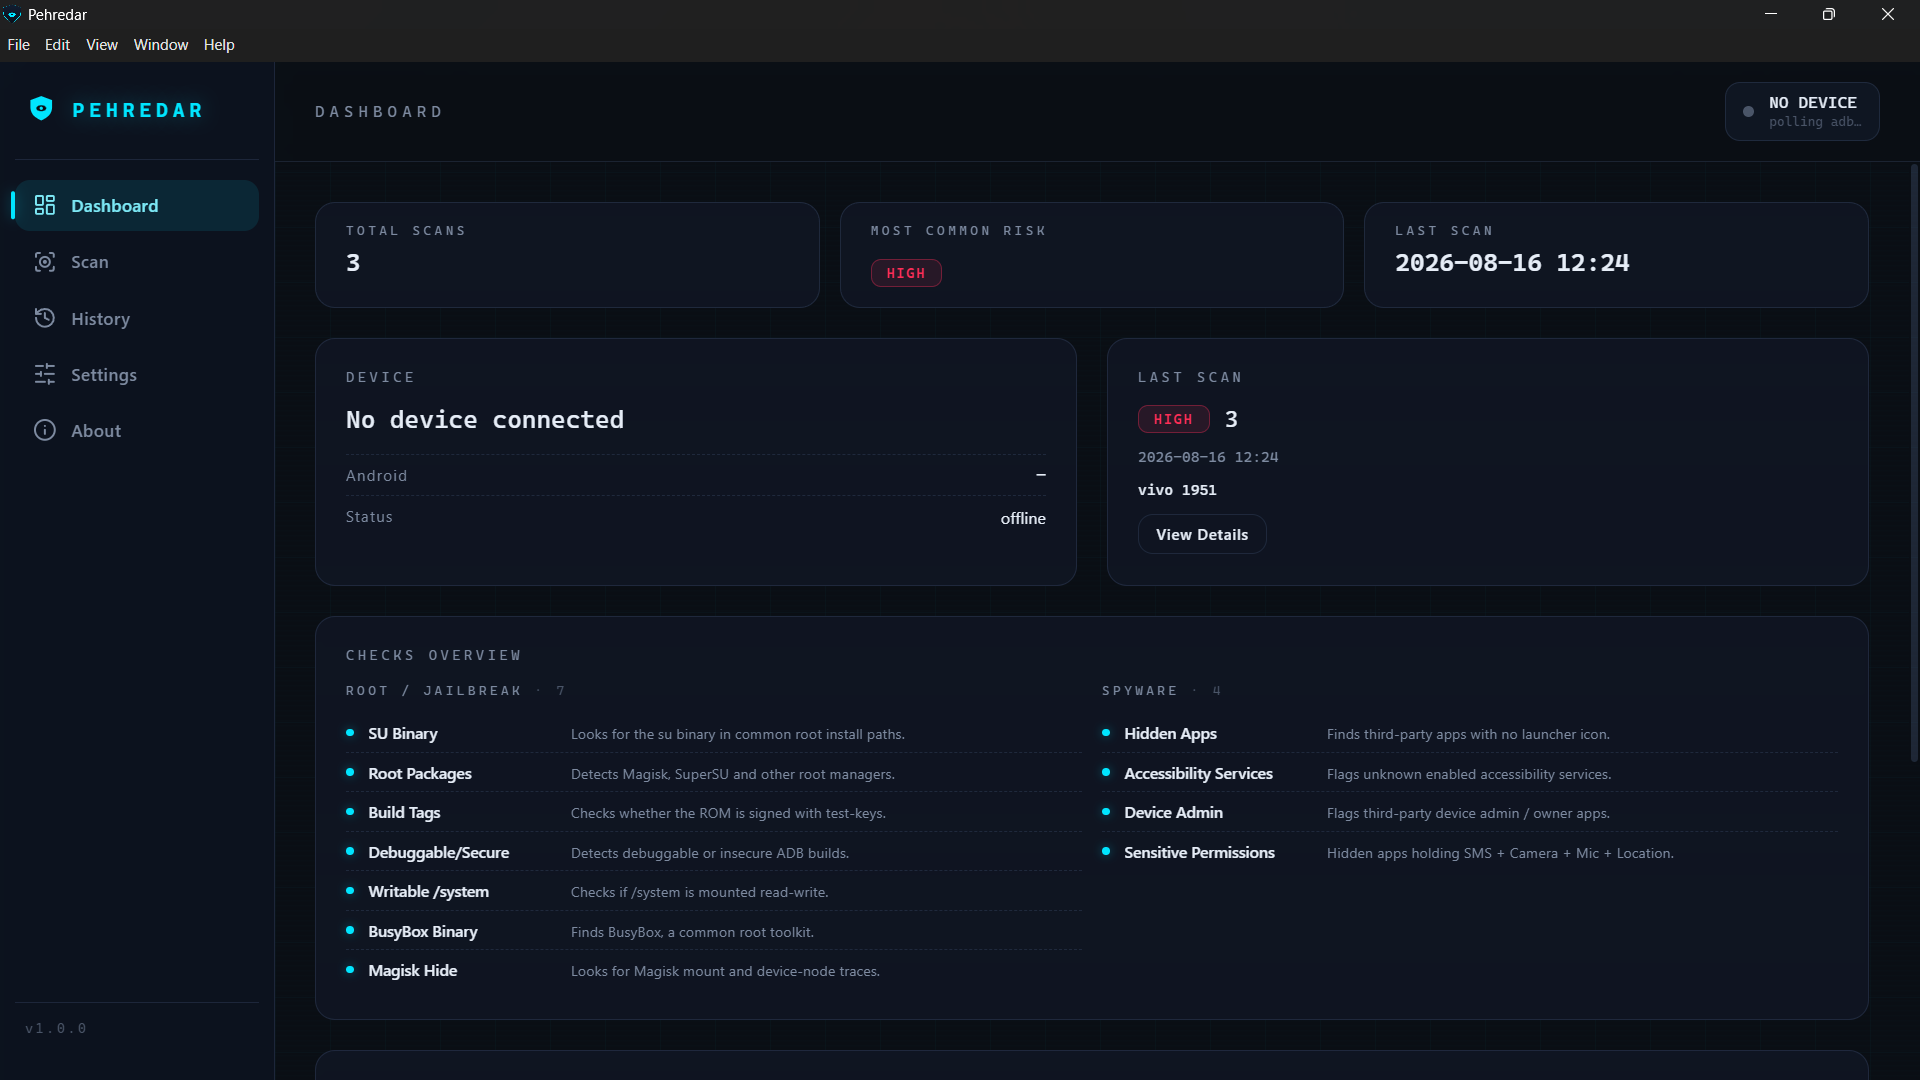
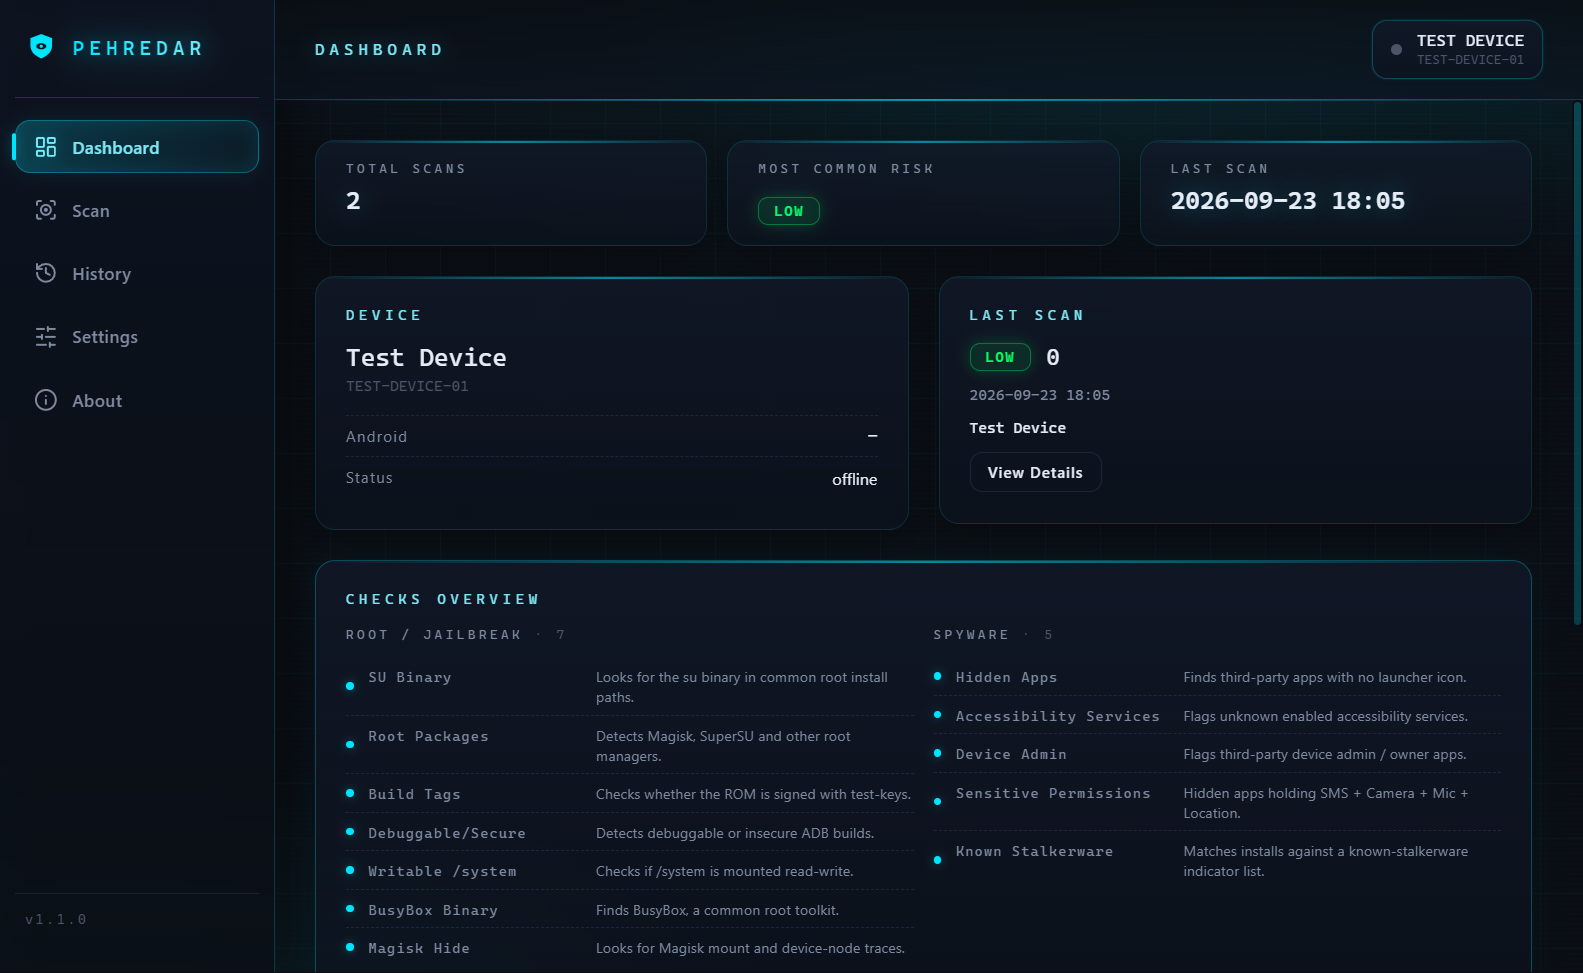
Rewrite README (short, safety-first) with fresh v1.1.0 screenshots
- 43 lines / 304 words: tagline, screenshots, download, 4-step quick start, checks table, safety note, license

- New dashboard/history/safety-first captures (fixture data only, no PII); retire stale scan-detail

diff --git a/README.md b/README.md
@@ -1,68 +1,43 @@
 # Pehredar
 
-**Pehredar** (Hindi: पहरेदार, "watchman / guard") checks Android devices for root, jailbreak, and hidden-monitoring indicators over ADB — no on-device installation required.
+**Know what's really on your Android phone.**
 
-![Build](https://img.shields.io/badge/build-pending-lightgrey) <!-- TODO: point at your CI workflow status badge -->
-![License: MIT](https://img.shields.io/badge/license-MIT-blue.svg)
-![Platform](https://img.shields.io/badge/platform-Windows%20%7C%20macOS%20%7C%20Linux-00e5ff)
-
-## What is Pehredar?
-
-One tool, two audiences. For developers and QA teams it's a compliance-testing tool that verifies how an Android app behaves against rooted or compromised devices — 12 detection checks over ADB, nothing installed on the phone, and client-ready JSON/HTML reports. For individuals it's a way to check whether your own phone has been tampered with or carries hidden monitoring (spyware/stalkerware) apps — plug in, click a button, read results in plain language. Both share the exact same detection engine; only the presentation differs.
+Pehredar checks your phone for hidden monitoring and tampering — rooting, spyware, stalkerware — over USB, with nothing installed on the phone itself. If something serious turns up, it explains the finding in plain language and never rushes you toward removal: deleting spyware can alert whoever put it there.
 
 ## Screenshots
 
-| Dashboard | Live scan | Scan detail |
-| --------- | --------- | ----------- |
-| ![Dashboard](screenshots/dashboard.png) | ![Live scan](screenshots/scan-live.png) | ![Scan detail](screenshots/scan-detail.png) |
+| Dashboard | Live scan |
+| --------- | --------- |
+| ![Dashboard](screenshots/dashboard.png) | ![Live scan](screenshots/scan-live.png) |
 
-## Download (packaged app — no setup)
+| Safety-first flow | History + compare |
+| ----------------- | ----------------- |
+| ![Safety first](screenshots/safety-first.png) | ![History](screenshots/history.png) |
 
-No Python or ADB install needed — both are bundled inside the installer.
-Grab the latest release from
-[GitHub Releases](https://github.com/MadB0i/Pehredar/releases),
-install, plug in your phone with USB Debugging on, and click Scan.
+## Download & install
 
-- Windows: `Pehredar-*-win-*.exe` (unsigned — accept the SmartScreen prompt, verify `SHA256SUMS.txt`)
-- Linux: `Pehredar-*-linux-*.AppImage` (`chmod +x`, then run)
+Grab the latest installer from [GitHub Releases](https://github.com/MadB0i/Pehredar/releases) — Python and ADB are bundled inside, nothing else to install.
 
-The installer embeds Google's Android Debug Bridge (adb) —
-see [NOTICE-THIRD-PARTY.md](NOTICE-THIRD-PARTY.md) for the license note.
+- Windows: `Pehredar-*-win-*.exe` (unsigned, so SmartScreen will ask — verify `SHA256SUMS-win.txt`)
+- Linux: `Pehredar-*.AppImage` (`chmod +x`, then run)
 
-## Quick Start (from source — Python + adb required)
+## Quick start
 
-```bash
-# prerequisites: Python 3.8+ and adb (Android Platform Tools)
-git clone https://github.com/MadB0i/Pehredar.git
-cd Pehredar
-pip install -e .
-```
+1. Install Pehredar from the link above.
+2. On the phone: tap **Build number** 7 times, turn on **USB debugging**, plug in with USB.
+3. Accept the *Allow USB debugging?* prompt on the phone.
+4. Click **New Scan** and read the plain-language summary.
 
-Enable **USB Debugging** on your phone (Settings → Developer Options), connect it, and authorize the computer when prompted. Then:
+## What it checks
 
-```bash
-pehredar        # runs 12 checks and prints a risk summary
-pehredar-diff old.json new.json   # what changed since last scan (exit 1 = new findings)
-```
+| Root / jailbreak (7) | Spyware / stalkerware (5) |
+| -------------------- | ------------------------- |
+| SU binary, root packages (Magisk/SuperSU), build tags, debuggable props, writable `/system`, BusyBox, Magisk Hide | Hidden apps (no icon), accessibility abuse, device admin/owner, SMS+camera+mic+location combo, known-stalkerware list |
 
-Or launch the desktop app: `cd gui && npm install && npm start`.
+## Safety first
 
-## Features
+High-risk findings don't lead straight to an Uninstall button. Pehredar shows a calm choice screen first: preserve evidence (stored off the phone, never in a shared account), remove with understanding, or see India support options (112, 181, NCW 14490, Cyber 1930). Scan verdicts are indicators, never proof — verify before acting.
 
-- Root/jailbreak detection: su binary, root apps (Magisk/SuperSU), build tags, debuggable props, writable `/system`, BusyBox, Magisk Hide
-- Spyware detection: hidden apps, accessibility services, device admin/owner, apps holding SMS + camera + mic + location, known-stalkerware list (CAS/TinyCheck curated)
-- Scan diffing: `pehredar-diff old.json new.json` shows new apps, new failures, risk change since last scan
-- Risk scoring (Low/Medium/High) with JSON report and JSON streaming export
-- Electron GUI: animated scan graph, dashboard, history, settings, one-click HTML report export
-- Review & Remove: uninstall flagged apps over ADB (system apps protected, explicit confirmation required)
-- Simple Mode: plain-language results for non-technical users
+## License & contributing
 
-## Guides
-
-- **Full developer guide** — extend checks, JSON format, checks reference → [docs/for-developers.md](docs/for-developers.md)
-- **Using Pehredar for personal safety** — plain-language explainer → [docs/for-personal-use.md](docs/for-personal-use.md)
-- **Contributing** — setup, tests, PR expectations → [CONTRIBUTING.md](CONTRIBUTING.md)
-
-## License
-
-MIT — see [LICENSE](LICENSE).
+MIT — see [LICENSE](LICENSE). Bundled ADB licensing: [NOTICE-THIRD-PARTY.md](NOTICE-THIRD-PARTY.md). Contributions welcome — see [CONTRIBUTING.md](CONTRIBUTING.md) (developer guides live in [docs/](docs/for-developers.md)).

diff --git a/screenshots/README.md b/screenshots/README.md
@@ -1,15 +1,18 @@
 # Screenshots
 
-Drop the screenshots here and reference them in the README's **Screenshots** section.
-
-Expected filenames:
+README images. All show test/fixture data only — never capture a real
+device serial or real package names here.
 
 | File | What it shows |
 | ---- | ------------- |
-| `dashboard.png` | Dashboard view — device info, quick stats, checks overview, risk trend |
-| `scan-live.png` | Scan view mid-run — animated network graph of checks |
-| `scan-detail.png` | Scan detail — full results with a failing check (and Review & Remove) |
-| `settings.png` | Settings view — check toggles, ADB configuration, appearance, storage |
-| `about.png` | About view — how-it-works, checks reference, links |
+| `dashboard.png` | Dashboard — stats, device card, last scan, 12-check overview |
+| `scan-live.png` | Scan view mid-run — network graph, live check progress |
+| `safety-first.png` | Safety-first choice screen (from a fixture stalkerware match) |
+| `history.png` | History list with risk badges |
 
-Ideally capture them at the app's default window size (1280x840) for consistent proportions.
+How they were captured: dev-mode Electron driven by Playwright
+(`page.click` through nav → scan → history → detail → review), with a
+fresh `--user-data-dir` profile holding crafted `VERIFY-*` scan records
+(fake `TEST-DEVICE-01` identity), plus a real device attached for the
+mid-scan shot. Live-serial text in the top bar was neutralized via DOM
+before each shot. App window 1280×840.
